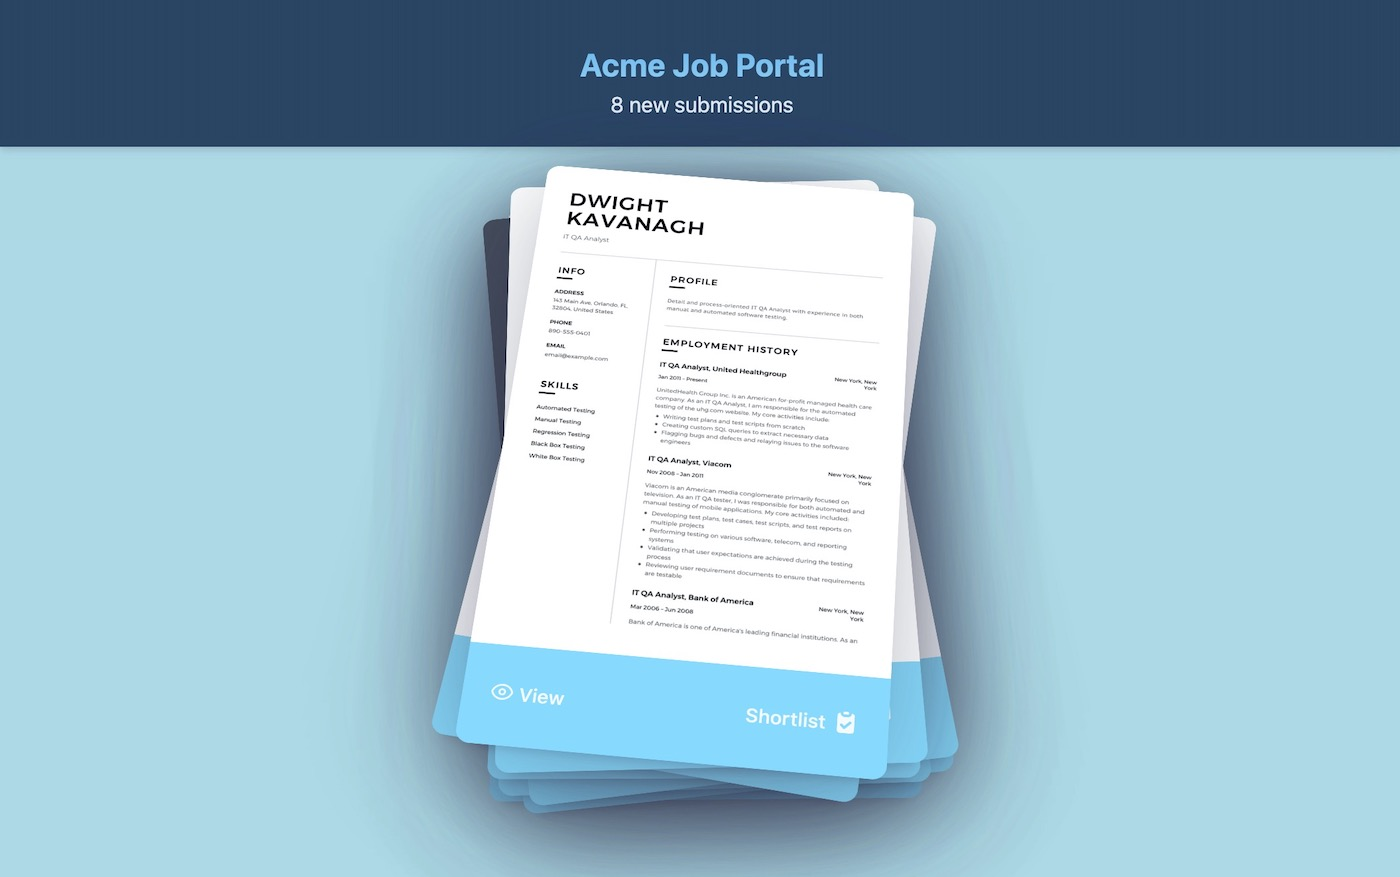
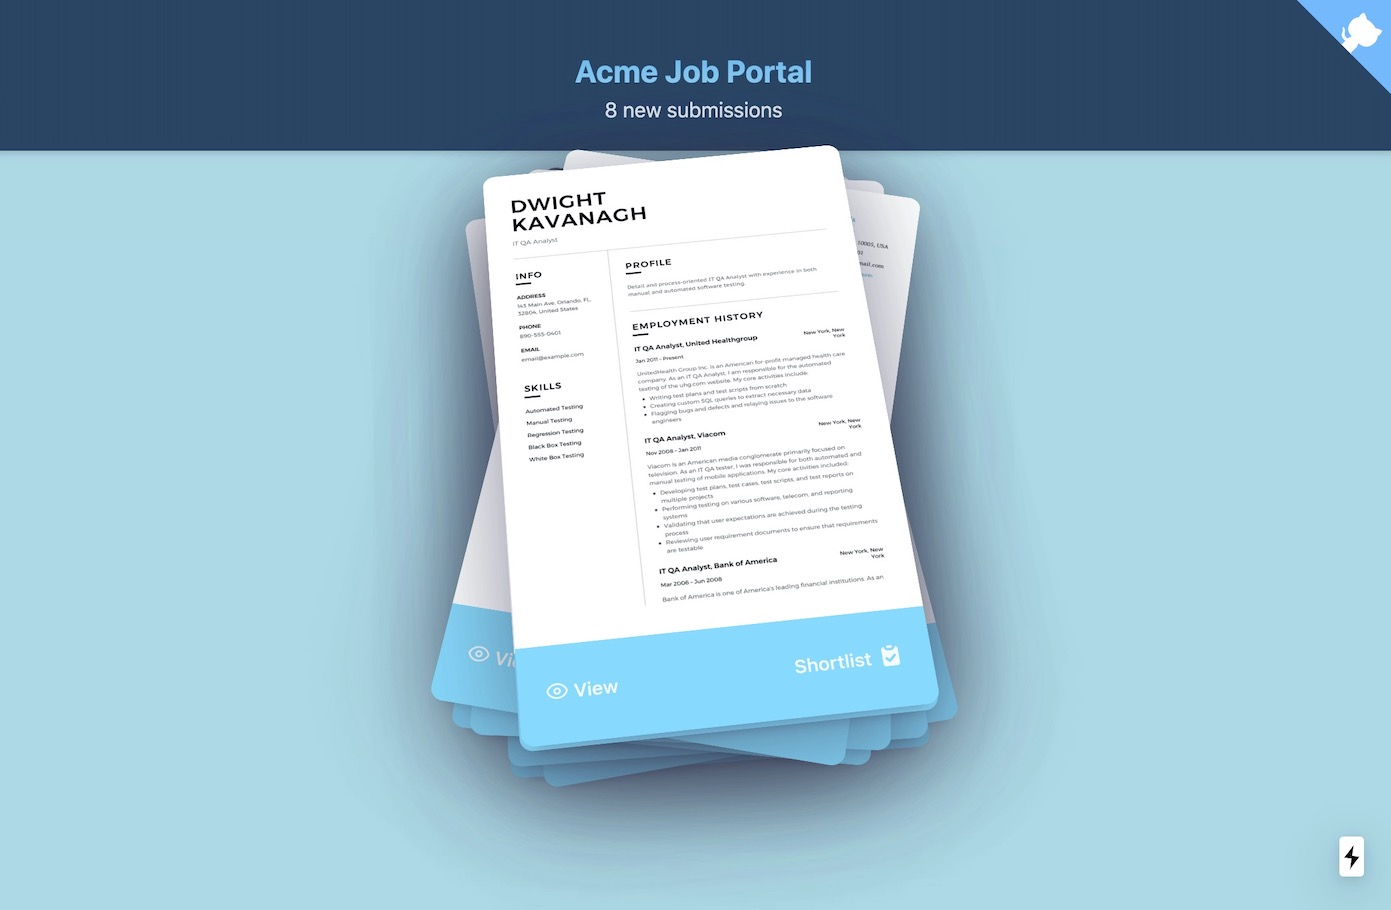
chore: add github ribbon

Changed region(s): [[0.3091, 0.0616, 0.711, 1.0], [0.9274, 0.0, 1.0, 0.1231], [0.9583, 0.9236, 0.9892, 0.9852]]

diff --git a/src/components/GithubCorner.jsx b/src/components/GithubCorner.jsx
@@ -1,0 +1,29 @@
+export default function GithubCorner({ url, className = "" }) {
+    return <>
+        <style jsx gloabal>{`
+            .github-corner:hover .octo-arm {
+                animation: octocat-wave 560ms ease-in-out;
+            }
+            @keyframes octocat-wave {
+                0 %, 100 % { transform: rotate(0) };
+                20%, 60% { transform:rotate(-25deg) };
+                40%, 80% { transform:rotate(10deg) };
+            }
+            @media (max-width:500px) {
+                .github-corner:hover .octo-arm{
+                    animation: none;
+                }
+                .github-corner .octo-arm {
+                    animation: octocat-wave 560ms ease-in-out;
+                }
+            }`
+        }</style>
+        <a href={url} className={`github-corner ${className}`} aria-label="View source on GitHub">
+            <svg width="80" height="80" viewBox="0 0 250 250" style={{ fill: '#70B7FD', color: '#fff', position: 'absolute', top: 0, border: 0, right: 0 }} aria-hidden="true">
+                <path d="M0, 0 L115, 115 L130, 115 L142, 142 L250, 250 L250, 0 Z" />
+                <path d="M128.3, 109.0 C113.8, 99.7 119.0, 89.6 119.0, 89.6 C122.0, 82.7 120.5, 78.6 120.5, 78.6 C119.2, 72.0 123.4, 76.3 123.4, 76.3 C127.3, 80.9 125.5, 87.3 125.5, 87.3 C122.9, 97.6 130.6, 101.9 134.4, 103.2" fill="currentColor" style={{ transformOrigin: '130px 106px' }} className="octo-arm" />
+                <path d="M115.0,115.0 C114.9,115.1 118.7,116.5 119.8,115.4 L133.7,101.6 C136.9,99.2 139.9,98.4 142.2,98.6 C133.8,88.0 127.5,74.4 143.8,58.0 C148.5,53.4 154.0,51.2 159.7,51.0 C160.3,49.4 163.2,43.6 171.4,40.1 C171.4,40.1 176.1,42.5 178.8,56.2 C183.1,58.6 187.2,61.8 190.9,65.4 C194.5,69.0 197.7,73.2 200.1,77.6 C213.8,80.2 216.3,84.9 216.3,84.9 C212.7,93.1 206.9,96.0 205.4,96.6 C205.1,102.4 203.0,107.8 198.3,112.5 C181.9,128.9 168.3,122.5 157.7,114.1 C157.9,116.9 156.7,120.9 152.7,124.9 L141.0,136.5 C139.8,137.7 141.6,141.9 141.8,141.8 Z" fill="currentColor" className="octo-body" />
+            </svg>
+        </a >
+    </>
+}

diff --git a/src/config/seo.js b/src/config/seo.js
@@ -2,11 +2,10 @@ export default {
   openGraph: {
     title: "Acme Job Portal",
     description: "Just another experiment. React Spring x Tailwind x NextJS.",
-    url: "https://acme-job-portal.wzulfikar.vercel.app/",
+    url: "https://acme-job-portal.vercel.app/",
     images: [
       {
-        url:
-          "https://acme-job-portal.wzulfikar.vercel.app/assets/images/og-default.jpeg",
+        url: "https://acme-job-portal.vercel.app/assets/images/og-default.jpeg",
         width: 860,
         height: 506,
         alt: `Acme Job Portal`,
@@ -14,6 +13,6 @@ export default {
     ],
     type: "website",
     locale: "en_IE",
-    site_name: "acme-job-portal.wzulfikar.vercel.app",
+    site_name: "https://acme-job-portal.vercel.app",
   },
 };

diff --git a/pages/_app.jsx b/pages/_app.jsx
@@ -7,6 +7,7 @@ import Head from 'next/head'
 import { DefaultSeo } from "next-seo";
 
 import seoConfig from "../src/config/seo";
+import GithubCorner from "../src/components/GithubCorner";
 
 function MyApp({ Component, pageProps }) {
   return (
@@ -16,6 +17,8 @@ function MyApp({ Component, pageProps }) {
       </Head>
       <DefaultSeo {...seoConfig} />
       <Component {...pageProps} className="antialiased" />
+
+      <GithubCorner url={'https://acme-job-portal.vercel.app'} />
     </>
   );
 }

diff --git a/README.md b/README.md
@@ -8,7 +8,7 @@ An API endpoint to is also created to simulate fetching of new resume submission
 
 Visit this URL to play around with the app:
 
-https://acme-job-portal.wzulfikar.vercel.app
+https://acme-job-portal.vercel.app
 
 ![public/assets/images/og-default.jpeg](public/assets/images/og-default.jpeg)
 
